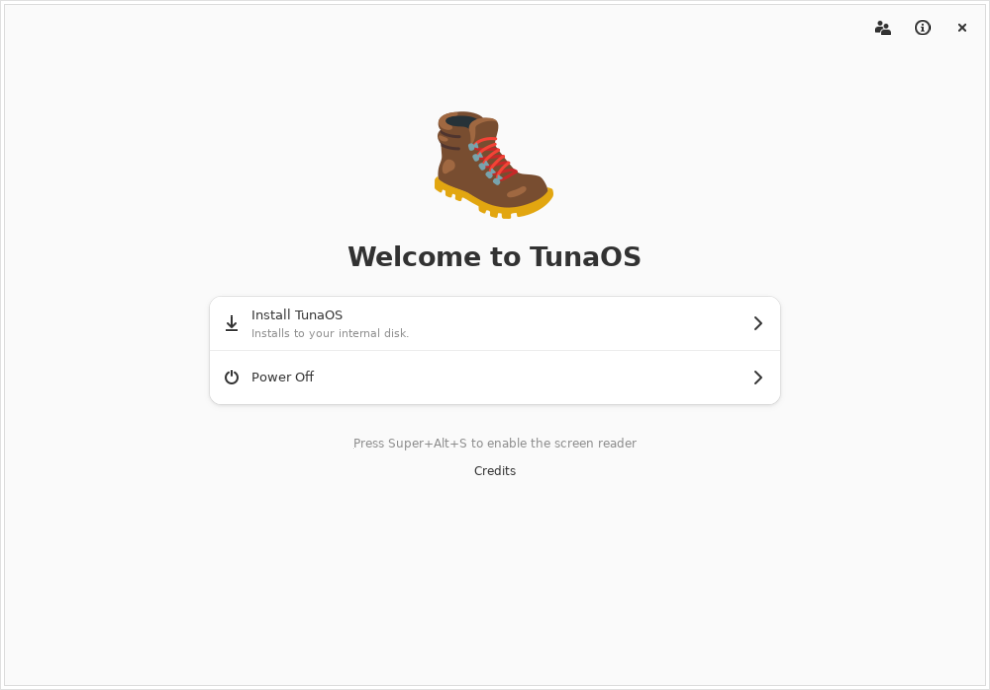
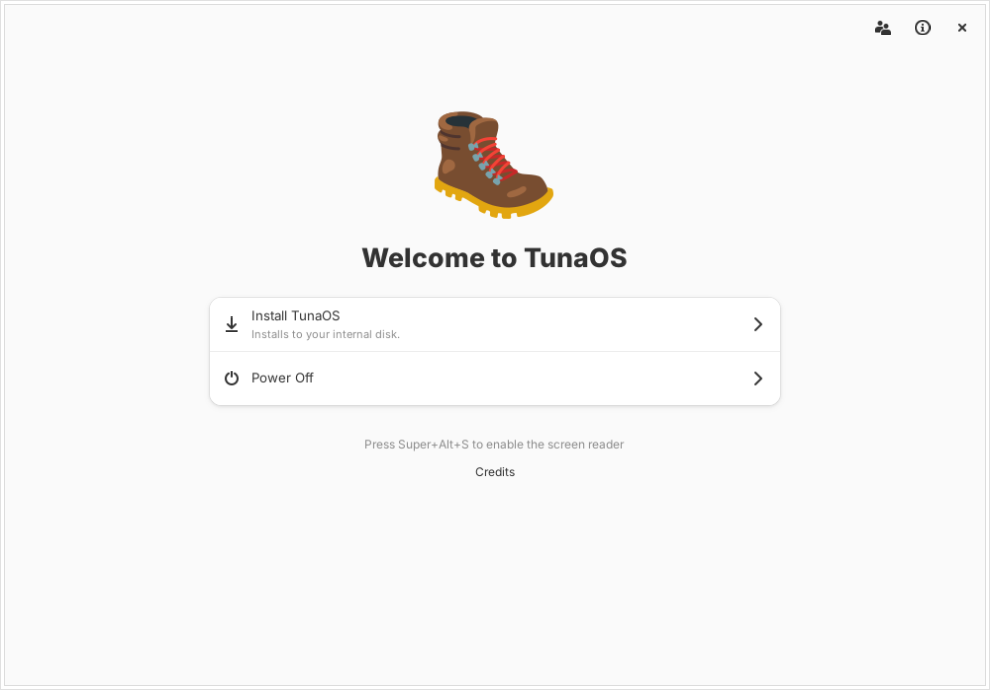
fix(gnome): the image page starts on the branding default image; refresh the screenshots (#315)
The bundled recipe names no image, so a product names its image with
branding default_image. The image page selects it when the catalog has
it. docs/screenshots follows the new step list: 10 pages.

Claude-Session: https://claude.ai/code/session_01F5v5GG4NYnpzMrfPCo3vWN

diff --git a/tests/ui/test_install_flow.py b/tests/ui/test_install_flow.py
@@ -9,10 +9,12 @@ replaced is FishermanSession: no test starts a root process.
     xvfb-run -a python3 -m pytest tests/ui/test_install_flow.py -q
 """
 
+import json
 import os
 import time
 from pathlib import Path
 from types import SimpleNamespace
+from typing import ClassVar
 from unittest.mock import patch
 
 import gi
@@ -20,11 +22,11 @@ import pytest
 
 gi.require_version("Gtk", "4.0")
 gi.require_version("Adw", "1")
-from gi.repository import Adw, Gio, GLib  # noqa: E402
+from gi.repository import Adw, Gio, GLib
 
-from bootc_installer.main import BootcInstaller  # noqa: E402
-from bootc_installer.views import progress as progress_mod  # noqa: E402
-from bootc_installer.windows.main_window import BootcWindow  # noqa: E402
+from bootc_installer.main import BootcInstaller
+from bootc_installer.views import progress as progress_mod
+from bootc_installer.windows.main_window import BootcWindow
 
 _RECIPE_PATH = Path(__file__).resolve().parents[2] / "recipe.json"
 
@@ -57,7 +59,7 @@ class _FakeSession:
     """Stands in for FishermanSession: counts launches, and exits when the
     test says so. Everything else about the progress page is real."""
 
-    created = []
+    created: ClassVar[list] = []
 
     def __init__(self, recipe, **kwargs):
         self.recipe = recipe
@@ -125,7 +127,7 @@ def _view(window, name):
 
 def _current_page(window):
     carousel = window.carousel
-    return carousel.get_nth_page(int(round(carousel.get_position())))
+    return carousel.get_nth_page(round(carousel.get_position()))
 
 
 def _show(window, page):
@@ -149,10 +151,10 @@ class _Flow:
         return _FakeSession.created
 
     def last_step(self):
-        return getattr(self.window, "_BootcWindow__last_step_widget")
+        return self.window._BootcWindow__last_step_widget
 
     def choose_disk(self):
-        builder = getattr(self.window, "_BootcWindow__builder")
+        builder = self.window._BootcWindow__builder
         disk = next(w for w in builder.widgets if getattr(w, "_bootc_step_key", "") == "disk")
         disk._set_auto_partition_recipe(disk._BootcDefaultDisk__disks.all_disks()[0])
         _pump()
@@ -180,13 +182,10 @@ class _Flow:
         return session
 
     def dialog(self):
-        return getattr(self.window, "_BootcWindow__open_dialog")
+        return self.window._BootcWindow__open_dialog
 
     def close(self):
-        try:
-            self.window.destroy()
-        except Exception:
-            pass
+        self.window.destroy()
         _pump()
         for patcher in reversed(self._patchers):
             patcher.stop()
@@ -582,7 +581,7 @@ class TestRecoveryKeyInTheLog:
         """#316. The pane, and Copy Log after it, carried the key."""
         flow.visit_confirm()
         flow.click_install()
-        flow.progress.feed_line('{"type":"recovery_key","key":"%s"}' % self._KEY)
+        flow.progress.feed_line(json.dumps({"type": "recovery_key", "key": self._KEY}))
         buf = flow.progress.log_view.get_buffer()
         text = buf.get_text(buf.get_start_iter(), buf.get_end_iter(), False)
         assert self._KEY not in text
@@ -592,7 +591,7 @@ class TestRecoveryKeyInTheLog:
         flow.window.update_finals()
         flow.window.finals.append({"encryption": {"use_encryption": True, "type": "tpm2-luks"}})
         flow.window.on_installation_confirmed()
-        flow.progress.feed_line('{"type":"recovery_key","key":"%s"}' % self._KEY)
+        flow.progress.feed_line(json.dumps({"type": "recovery_key", "key": self._KEY}))
         session = flow.sessions[0]
         session.exit_code = 0
         key_page = _view(flow.window, "recovery_key")
@@ -609,7 +608,7 @@ class TestRecoveryKeyInTheLog:
     def test_a_failed_install_scrubs_the_log(self, flow):
         flow.visit_confirm()
         flow.click_install()
-        flow.progress.feed_line('{"type":"recovery_key","key":"%s"}' % self._KEY)
+        flow.progress.feed_line(json.dumps({"type": "recovery_key", "key": self._KEY}))
         session = flow.finish(1)
         assert session.scrubbed == [self._KEY]
 

diff --git a/tests/ui/test_image_catalog_containers.py b/tests/ui/test_image_catalog_containers.py
@@ -59,3 +59,37 @@ def test_recipe_extra_images_keep_names_and_unnamed_slug_fallback():
     for leaf, expected in zip(page._BootcDefaultImage__leaf_rows, ['Recipe Remix', 'Unnamed'], strict=True):
         leaf[1].set_active(True)
         assert page.get_finals()['pretty_name'] == expected
+
+
+def _tree():
+    return [
+        {'name': 'First', 'imgref': 'localhost/first:latest'},
+        {'name': 'Product', 'imgref': 'localhost/product:latest'},
+    ]
+
+
+def test_branding_default_image_is_selected_when_the_catalog_names_none():
+    """#315: the bundled recipe names no image, so a product names its
+    image through branding `default_image`."""
+    controller = SimpleNamespace(recipe={'branding': {'default_image': 'localhost/product:latest'}})
+    with patch.object(image, '_IMAGE_TREE', _tree()), patch.object(image, '_DEFAULT_IMAGE', ''):
+        page = image.BootcDefaultImage(controller, {}, 'image', {})
+    assert page.get_finals()['selected_image'] == 'localhost/product:latest'
+    assert page.btn_next.get_sensitive()
+
+
+def test_the_catalog_default_wins_over_the_branding_default():
+    controller = SimpleNamespace(recipe={'branding': {'default_image': 'localhost/product:latest'}})
+    with patch.object(image, '_IMAGE_TREE', _tree()), \
+         patch.object(image, '_DEFAULT_IMAGE', 'localhost/first:latest'):
+        page = image.BootcDefaultImage(controller, {}, 'image', {})
+    assert page.get_finals()['selected_image'] == 'localhost/first:latest'
+
+
+def test_a_branding_default_that_the_catalog_lacks_selects_nothing():
+    """The user must pick: Next stays off."""
+    controller = SimpleNamespace(recipe={'branding': {'default_image': 'localhost/absent:latest'}})
+    with patch.object(image, '_IMAGE_TREE', _tree()), patch.object(image, '_DEFAULT_IMAGE', ''):
+        page = image.BootcDefaultImage(controller, {}, 'image', {})
+    assert page.get_finals()['selected_image'] is None
+    assert not page.btn_next.get_sensitive()

diff --git a/bootc_installer/defaults/image.py b/bootc_installer/defaults/image.py
@@ -291,6 +291,14 @@ class BootcDefaultImage(Adw.Bin):
         self.__step = step
         self.delta = False
 
+        # The image selected at the start: the catalog's `default_image`,
+        # else the branding contract's (shared/branding/README.md), which is
+        # how a product names its image now that the bundled recipe names
+        # none (#315). It is selected only when the catalog has it.
+        branding = window.recipe.get("branding") if isinstance(
+            getattr(window, "recipe", None), dict) else None
+        branding_default = branding.get("default_image", "") if isinstance(branding, dict) else ""
+        self.__default_image = _DEFAULT_IMAGE or branding_default or ""
         self.__selected_imgref = _DEFAULT_IMAGE or None
         self.__selected_flatpaks = None  # per-image flatpak list (None = use fallback)
         self.__selected_flatpak_var_path = ""  # override for writable var path (e.g. GnomeOS)
@@ -447,7 +455,7 @@ class BootcDefaultImage(Adw.Bin):
 
     def __select_default(self):
         for _row, check, imgref, _flatpaks, _icon, _carousel, _needs_user, _composefs, _image_type, _bootloader, _image_filesystem, _flatpak_var_path, _hostname, _filesystems, _search, ancestors in self.__leaf_rows:
-            if imgref == _DEFAULT_IMAGE:
+            if imgref == self.__default_image:
                 check.set_active(True)
                 for exp in ancestors:
                     exp.set_expanded(True)
@@ -538,7 +546,7 @@ class BootcDefaultImage(Adw.Bin):
 
     def __expand_default_path(self):
         for _, _, imgref, _, _, _, _, _, _, _, _, _, _, _, _, ancestors in self.__leaf_rows:
-            if imgref == _DEFAULT_IMAGE:
+            if imgref == self.__default_image:
                 for exp in ancestors:
                     exp.set_expanded(True)
                 return

diff --git a/tests/gui/capture-screens.py b/tests/gui/capture-screens.py
@@ -387,9 +387,31 @@ def _choose_disk(win):
     SEED_FAILURES.append("confirm: no disk page in the carousel")
 
 
+def _choose_image(win):
+    """Choose an image on the image page when none is selected, as a user
+    must before Next. The bundled recipe names no image, and the capture
+    branding's default is not in fisherman's catalog, so without this the
+    confirm page would have no Image row."""
+    carousel = win.carousel
+    for index in range(carousel.get_n_pages()):
+        page = carousel.get_nth_page(index)
+        if getattr(page, "_bootc_step_key", None) != "image":
+            continue
+        finals = page.get_finals()
+        if finals.get("selected_image") or finals.get("custom_image"):
+            return
+        rows = page._BootcDefaultImage__leaf_rows
+        if not rows:
+            SEED_FAILURES.append("confirm: the image page has no images to choose")
+            return
+        rows[0][1].set_active(True)
+        return
+
+
 def _seed(win, page, name):
     """Put each page into the state a user would see it in."""
     if name == "confirm":
+        _choose_image(win)
         _choose_disk(win)
         win.update_finals()
     elif name == "progress":

diff --git a/tests/unit/test_fisherman_session.py b/tests/unit/test_fisherman_session.py
@@ -438,10 +438,10 @@ class RecoveryKeyRedactionTests(unittest.TestCase):
     def _log(self):
         return "\n".join([
             '{"type":"step","step":8,"total_steps":9,"step_name":"Enrolling TPM2"}',
-            '{"type":"recovery_key","key":"%s"}' % self.KEY,
-            '{"type": "recovery_key", "key": "%s", "message": "keep"}' % self.KEY,
-            "Recovery key: %s" % self.KEY,
-            "systemd-cryptenroll: recovery key is %s (stderr)" % self.KEY,
+            '{"type":"recovery_key","key":"' + self.KEY + '"}',
+            '{"type": "recovery_key", "key": "' + self.KEY + '", "message": "keep"}',
+            "Recovery key: " + self.KEY,
+            "systemd-cryptenroll: recovery key is " + self.KEY + " (stderr)",
             '{"type":"complete","message":"Installation complete!"}',
             "",
         ])

diff --git a/bootc_installer/views/done.py b/bootc_installer/views/done.py
@@ -334,7 +334,7 @@ class BootcDone(Adw.Bin):
                 try:
                     subprocess.run(argv, check=True, capture_output=True, timeout=15)
                     log.info("BootNext set to Boot%s", self.__boot_id)
-                except Exception as e:
+                except (OSError, subprocess.SubprocessError) as e:
                     # Non-fatal: the user can pick the entry in the
                     # firmware's boot menu.
                     log.warning("Could not set BootNext to %s: %s", self.__boot_id, e)

diff --git a/bootc_installer/windows/main_window.py b/bootc_installer/windows/main_window.py
@@ -339,7 +339,7 @@ class BootcWindow(Adw.ApplicationWindow):
     def __is_done(self):
         # round(), not int(): while the carousel still slides to the done
         # page its position is a fraction below that page's index.
-        cur_index = int(round(self.carousel.get_position()))
+        cur_index = round(self.carousel.get_position())
         return self.carousel.get_nth_page(cur_index) is self.__view_done
 
     def __find_page_index(self, target_page):

diff --git a/bootc_installer/views/confirm.py b/bootc_installer/views/confirm.py
@@ -335,7 +335,7 @@ class BootcConfirm(Adw.Bin):
         # row names what updates follow when that differs (#314).
         try:
             plan = Processor.image_plan(finals, recipe)
-        except Exception:
+        except (AttributeError, KeyError, TypeError, ValueError):
             plan = None
         if plan and plan["install"] and plan["install"] != plan["selected"]:
             primary["image"] = [

diff --git a/docs/PARITY.md b/docs/PARITY.md
@@ -125,7 +125,7 @@ not use `default_image` yet (#289).
 | Feature | GNOME | KDE | COSMIC | Niri | XFCE |
 |---|---|---|---|---|---|
 | Image catalog choice (fisherman `images.json`) | yes (tree, search) | yes (disk step, search) | yes (and a custom URL row) | yes (flat list) | yes (flat list) |
-| Image selected at start, off live media | catalog `default_image` | none: you must pick | first row of the catalog (#289) | first name in the alphabet (#289) | first name in the alphabet (#289) |
+| Image selected at start, off live media | catalog `default_image`, then branding `default_image` if the catalog has it; else you must pick | none: you must pick | first row of the catalog (#289) | first name in the alphabet (#289) | first name in the alphabet (#289) |
 | Catalog fields that reach the recipe | all | image, bootloader, composefs, hostname; not filesystem (#287) | image and Flatpaks only (#286) | image, filesystem, bootloader, composefs, hostname | image, filesystem, bootloader, composefs |
 | Live-ISO install without download (live media from `fisherman probe --json`) | yes | yes | yes | yes | yes |
 | Offline image stores (found by fisherman on the host) | yes | yes | yes | yes | yes |
